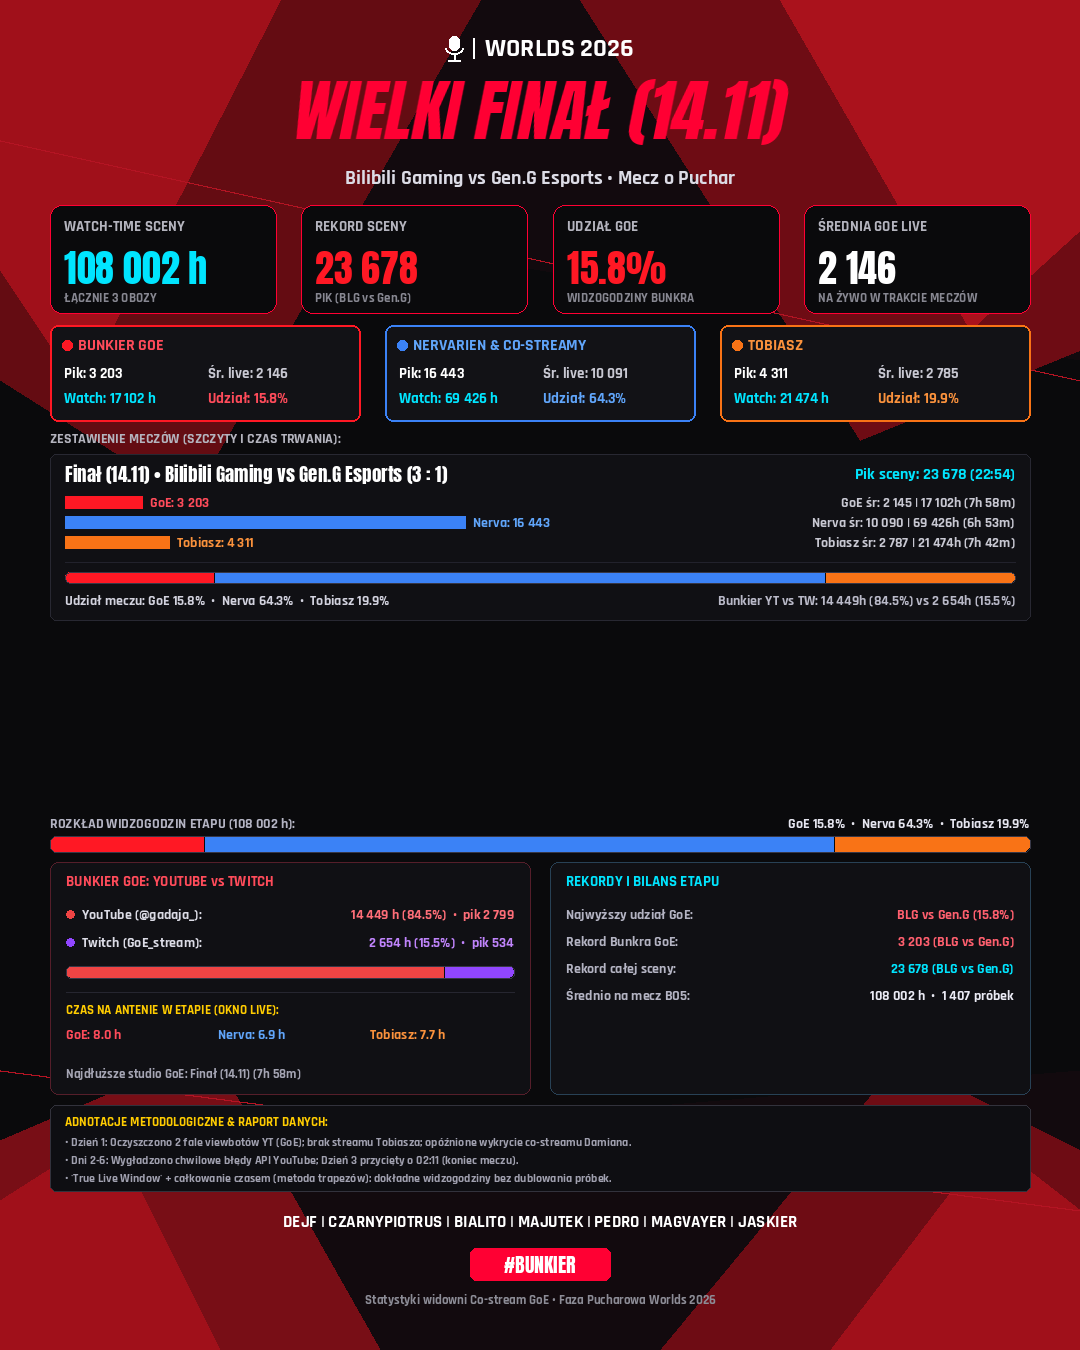
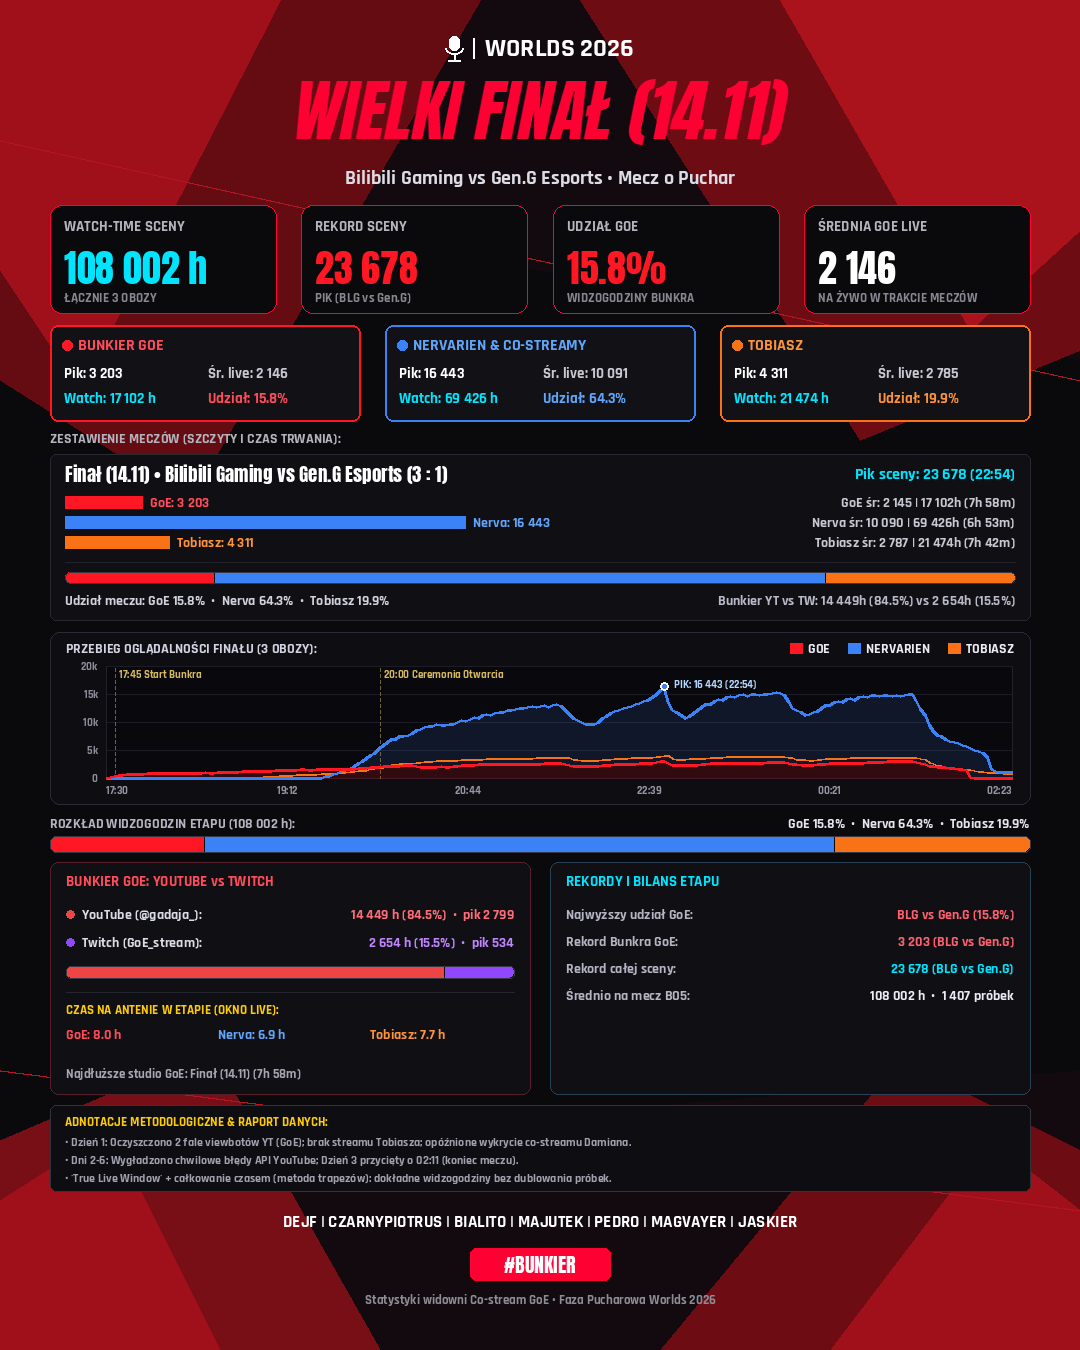
feat: add 3-camp timeline chart to finals_summary.png

Changed region(s): [[0.0917, 0.4667, 0.9472, 0.5911], [0.0611, 0.4667, 0.3056, 0.5289], [0.0611, 0.5289, 0.0917, 0.56]]

diff --git a/generate_summary.py b/generate_summary.py
@@ -1182,6 +1182,187 @@ def _draw_stage_analytics_panel(
             )
 
 
+def _draw_finals_timeline_chart(
+    base_img: Image.Image,
+    draw: ImageDraw.Draw,
+    width: int,
+    top_y: int,
+    bottom_y: int,
+    day_id: str = "day-7",
+):
+    """Renders a 3-camp timeline chart inside the empty space of single-match finals_summary.png."""
+    import json
+    import math
+    from config import DAYS_CONFIG
+
+    history_file = os.path.join(
+        os.path.dirname(os.path.abspath(__file__)), f"history_{day_id}.json"
+    )
+    if not os.path.exists(history_file):
+        return base_img, draw
+
+    try:
+        with open(history_file, "r", encoding="utf-8") as f:
+            pts = json.load(f)
+    except Exception:
+        return base_img, draw
+
+    if not pts or len(pts) < 2:
+        return base_img, draw
+
+    card_x1, card_x2 = 50, width - 50
+    draw.rounded_rectangle(
+        [card_x1, top_y, card_x2, bottom_y],
+        radius=10,
+        fill=(14, 14, 18),
+        outline=(42, 42, 54),
+        width=1,
+    )
+
+    font_hdr = _get_font(14, bold=True, font_type="rajdhani")
+    font_axis = _get_font(11, bold=False, font_type="rajdhani")
+    font_ev = _get_font(11, bold=True, font_type="rajdhani")
+
+    hdr_y = top_y + 16
+    draw.text(
+        (card_x1 + 16, hdr_y),
+        "PRZEBIEG OGLĄDALNOŚCI FINAŁU (3 OBOZY):",
+        fill=(210, 210, 225),
+        font=font_hdr,
+        anchor="lm",
+    )
+
+    # Inline legend (right-aligned)
+    legend_items = [
+        ("GOE", (255, 24, 36)),
+        ("NERVARIEN", (59, 130, 246)),
+        ("TOBIASZ", (249, 115, 22)),
+    ]
+    cur_lx = card_x2 - 16
+    for lbl, col in reversed(legend_items):
+        bbox = font_hdr.getbbox(lbl)
+        lbl_w = bbox[2] - bbox[0]
+        cur_lx -= lbl_w
+        draw.text((cur_lx, hdr_y), lbl, fill=(235, 235, 245), font=font_hdr, anchor="lm")
+        sw_x2 = cur_lx - 6
+        sw_x1 = sw_x2 - 12
+        draw.rectangle([sw_x1, hdr_y - 5, sw_x2, hdr_y + 5], fill=col)
+        cur_lx = sw_x1 - 18
+
+    plot_x1 = card_x1 + 56
+    plot_x2 = card_x2 - 18
+    plot_y1 = top_y + 34
+    plot_y2 = bottom_y - 26
+    plot_w = plot_x2 - plot_x1
+    plot_h = plot_y2 - plot_y1
+
+    draw.rectangle(
+        [plot_x1, plot_y1, plot_x2, plot_y2],
+        fill=(9, 9, 13),
+        outline=(34, 34, 44),
+        width=1,
+    )
+
+    # Extract series & downsample cleanly to ~220 points while preserving exact peaks
+    def _series_vals(p):
+        gv = p.get("goe_total", 0)
+        nv = p.get("nerva_total", 0)
+        tv = p.get("streams", {}).get("ttobias_lol", {}).get("viewers", 0)
+        return gv, nv, tv
+
+    raw_vals = [_series_vals(p) for p in pts]
+    max_raw = max(max(gv, nv, tv) for gv, nv, tv in raw_vals)
+    step_unit = 5000 if max_raw >= 10000 else 2000
+    max_y = max(step_unit, int(math.ceil((max_raw * 1.12) / step_unit) * step_unit))
+
+    # Y-axis grid lines (4 steps)
+    grid_steps = 4
+    for i in range(grid_steps + 1):
+        gy = plot_y2 - int((i / grid_steps) * plot_h)
+        val = int((i / grid_steps) * max_y)
+        draw.line([(plot_x1, gy), (plot_x2, gy)], fill=(28, 28, 38), width=1)
+        val_str = "0" if val == 0 else (f"{val // 1000}k" if val % 1000 == 0 else f"{val:,}".replace(",", " "))
+        draw.text((plot_x1 - 8, gy), val_str, fill=(140, 140, 155), font=font_axis, anchor="rm")
+
+    # Event vertical markers from DAYS_CONFIG
+    events = DAYS_CONFIG.get(day_id, {}).get("events", [])
+    n_pts = len(pts)
+    for ev in events:
+        ev_time = ev.get("time", "")
+        ev_label = ev.get("label", "")
+        if not ev_time:
+            continue
+        # Find first point matching HH:MM
+        match_idx = None
+        for idx, p in enumerate(pts):
+            ts_hms = p.get("timestamp", "").split()[-1]
+            if ts_hms.startswith(ev_time):
+                match_idx = idx
+                break
+        if match_idx is not None:
+            ex = plot_x1 + int((match_idx / (n_pts - 1)) * plot_w)
+            for dy in range(plot_y1 + 2, plot_y2, 6):
+                draw.line([(ex, dy), (ex, min(dy + 3, plot_y2))], fill=(110, 100, 60), width=1)
+            short_lbl = f"{ev_time} {ev_label}".strip()
+            draw.text((ex + 4, plot_y1 + 4), short_lbl, fill=(215, 185, 95), font=font_ev, anchor="lt")
+
+    # Bucketed downsampling for smooth lines
+    buckets = min(220, n_pts)
+    goe_coords, nerva_coords, tob_coords = [], [], []
+    for b in range(buckets):
+        i0 = int((b / buckets) * n_pts)
+        i1 = max(i0 + 1, int(((b + 1) / buckets) * n_pts))
+        slice_vals = raw_vals[i0:i1]
+        gv = sum(v[0] for v in slice_vals) / len(slice_vals)
+        nv = sum(v[1] for v in slice_vals) / len(slice_vals)
+        tv = sum(v[2] for v in slice_vals) / len(slice_vals)
+        x = plot_x1 + int((b / max(1, buckets - 1)) * plot_w)
+        goe_coords.append((x, plot_y2 - int((gv / max_y) * plot_h)))
+        nerva_coords.append((x, plot_y2 - int((nv / max_y) * plot_h)))
+        tob_coords.append((x, plot_y2 - int((tv / max_y) * plot_h)))
+
+    # Soft translucent fills under Nervarien and GoE
+    overlay = Image.new("RGBA", base_img.size, (0, 0, 0, 0))
+    odraw = ImageDraw.Draw(overlay)
+    if len(nerva_coords) >= 2:
+        odraw.polygon([(plot_x1, plot_y2)] + nerva_coords + [(plot_x2, plot_y2)], fill=(59, 130, 246, 30))
+    if len(goe_coords) >= 2:
+        odraw.polygon([(plot_x1, plot_y2)] + goe_coords + [(plot_x2, plot_y2)], fill=(255, 24, 36, 42))
+    base_img = Image.alpha_composite(base_img.convert("RGBA"), overlay).convert("RGB")
+    draw = ImageDraw.Draw(base_img)
+
+    # Draw lines (Tobiasz -> Nervarien -> GoE)
+    for i in range(len(tob_coords) - 1):
+        draw.line([tob_coords[i], tob_coords[i + 1]], fill=(249, 115, 22), width=2)
+    for i in range(len(nerva_coords) - 1):
+        draw.line([nerva_coords[i], nerva_coords[i + 1]], fill=(59, 130, 246), width=3)
+    for i in range(len(goe_coords) - 1):
+        draw.line([goe_coords[i], goe_coords[i + 1]], fill=(255, 24, 36), width=3)
+
+    # Peak callout for overall peak (Nervarien)
+    peak_idx = max(range(n_pts), key=lambda i: raw_vals[i][1])
+    peak_val = raw_vals[peak_idx][1]
+    peak_ts = pts[peak_idx].get("timestamp", "").split()[-1][:5]
+    pk_x = plot_x1 + int((peak_idx / (n_pts - 1)) * plot_w)
+    pk_y = plot_y2 - int((peak_val / max_y) * plot_h)
+    draw.ellipse([pk_x - 4, pk_y - 4, pk_x + 4, pk_y + 4], fill=(59, 130, 246), outline=(255, 255, 255), width=2)
+    pk_lbl = f"PIK: {peak_val:,} ({peak_ts})".replace(",", " ")
+    lbl_x = pk_x - 10 if pk_x > plot_x1 + plot_w * 0.65 else pk_x + 10
+    lbl_anchor = "rm" if pk_x > plot_x1 + plot_w * 0.65 else "lm"
+    draw.text((lbl_x, max(plot_y1 + 10, pk_y - 2)), pk_lbl, fill=(180, 215, 255), font=font_ev, anchor=lbl_anchor)
+
+    # X-axis timestamps (6 ticks)
+    tick_count = 6
+    for t in range(tick_count):
+        idx = int((t / (tick_count - 1)) * (n_pts - 1))
+        ts_hm = pts[idx].get("timestamp", "").split()[-1][:5]
+        tx = plot_x1 + int((idx / (n_pts - 1)) * plot_w)
+        anchor = "lm" if t == 0 else ("rm" if t == tick_count - 1 else "mm")
+        draw.text((tx, plot_y2 + 12), ts_hm, fill=(150, 150, 165), font=font_axis, anchor=anchor)
+
+    return base_img, draw
+
+
 def create_stage_summary_card(
     stage_id: str = "tournament",
     output_path: str = "tournament_summary.png",
@@ -1613,6 +1794,16 @@ def create_stage_summary_card(
                 font=font_rich_sub,
                 anchor="rm",
             )
+
+    if stage_id == "finals" and len(matches) == 1:
+        img, draw = _draw_finals_timeline_chart(
+            img,
+            draw,
+            width,
+            632,
+            804,
+            day_id="day-7",
+        )
 
     if show_analytics_panel:
         _draw_stage_analytics_panel(
